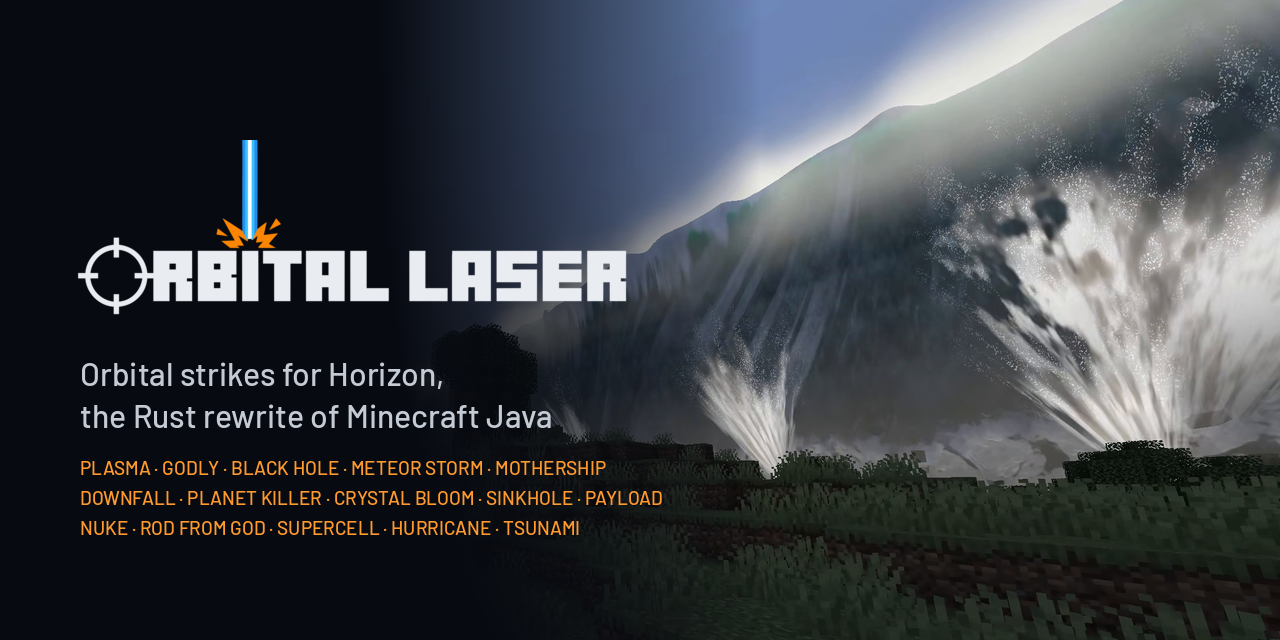
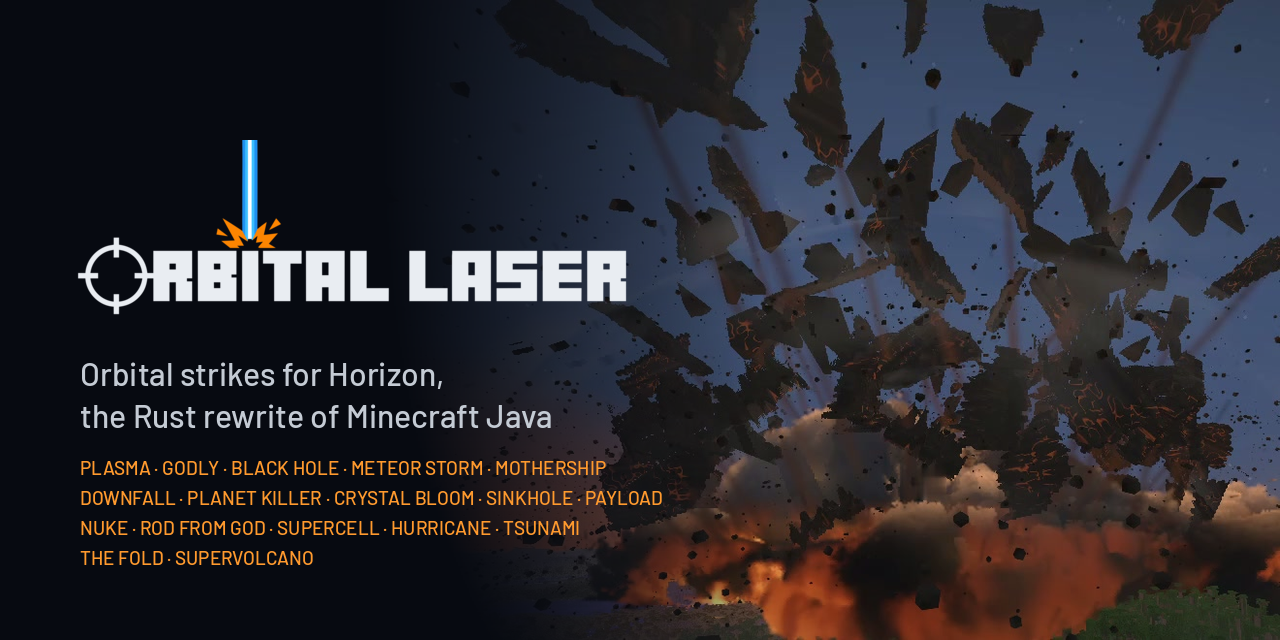
The Supervolcano's stills and the social card, from Kyle's recording
docs/54-57 from ~/Videos/supervolcano-1.mp4 (46, 60, 95 and 142 s), cropped clear of the hotbar and the hand, the
crosshair taken out with delogo, 1280x720: the burst, the column with its lightning at sunset, the wall of ash over the
savanna, the caldera at dusk. In the README's table and the 0.5.12 notes. The social card over the burst
(docs/branding/supervolcano-card.jpg, 50 s), with the Fold and the Supervolcano in its list of strikes.

diff --git a/tools/make_branding.py b/tools/make_branding.py
@@ -36,8 +36,8 @@ def raster(svg, width):
 def social_preview():
     W, H = 1280, 640
     # a strike on the right of the card (its ship and beam clear of the words), fading into the dark on the left
-    # (the Tsunami over the hills, its crest rising to the right, spray blown up where it hits the land)
-    shot = Image.open(ROOT / "docs" / "branding" / "tsunami-card.jpg").convert("RGB")
+    # (the Supervolcano's burst: the crust thrown up in plates over a band of fire, the sunset behind)
+    shot = Image.open(ROOT / "docs" / "branding" / "supervolcano-card.jpg").convert("RGB")
     shot = shot.resize((round(shot.width * H / shot.height), H), Image.LANCZOS)
     card = Image.new("RGBA", (W, H), (7, 10, 17, 255))
     card.paste(shot, (W - shot.width, 0))
@@ -58,6 +58,7 @@ def social_preview():
     d.text((80, 140 + logo.height + 136), "PLASMA · GODLY · BLACK HOLE · METEOR STORM · MOTHERSHIP", font=names, fill="#FF9A2E")
     d.text((80, 140 + logo.height + 166), "DOWNFALL · PLANET KILLER · CRYSTAL BLOOM · SINKHOLE · PAYLOAD", font=names, fill="#FF9A2E")
     d.text((80, 140 + logo.height + 196), "NUKE · ROD FROM GOD · SUPERCELL · HURRICANE · TSUNAMI", font=names, fill="#FF9A2E")
+    d.text((80, 140 + logo.height + 226), "THE FOLD · SUPERVOLCANO", font=names, fill="#FF9A2E")
     card.convert("RGB").save(OUT / "social-preview.png", optimize=True)
 
 

diff --git a/docs/releases/v0.5.12.md b/docs/releases/v0.5.12.md
@@ -12,12 +12,16 @@ The **Supervolcano** is the crust breached. A small laser satellite comes down o
 > [!CAUTION]
 > **Photosensitivity:** the Supervolcano's eruption whites out the picture for under a second at 18 seconds, and its lightning flashes in the cloud and over the land from about 26 to 80 seconds. The Tsunami's blow is one white flash over the whole picture. The Hurricane's eyewall lightning is bright flashes over much of the picture, in bursts. The Rod from God's impact frames are a fifth of a second of hard full-screen cuts, on by default (`/orbital impactframes off`). The Fold bends the whole world round you for half a minute.
 
-<!-- TODO stills: docs/54-supervolcano-*.jpg, captured in the game (the offscreen preview's flat synthetic land doesn't
-     match the other stills). Candidates from tools/preview.py are in ~/.cache/orbital-release-0512-work/stills-candidates.
 <p align="center">
-  <img alt="" width="720" src="https://github.com/Stink-O/orbital-laser/raw/main/docs/54-supervolcano-....jpg">
+  <img alt="The mount bursting open, fountains of lava and sparks thrown up off its broken peaks" width="720" src="https://github.com/Stink-O/orbital-laser/raw/main/docs/54-supervolcano-burst.jpg">
 </p>
--->
+<p align="center">
+  <img alt="The column at sunset, lightning down through it and plates of crust hanging in the air" width="356" src="https://github.com/Stink-O/orbital-laser/raw/main/docs/55-supervolcano-column.jpg">
+  <img alt="The wall of ash rolling over the savanna, its front lit, a tree black against it" width="356" src="https://github.com/Stink-O/orbital-laser/raw/main/docs/56-supervolcano-ash.jpg">
+</p>
+<p align="center">
+  <img alt="The caldera at dusk, a floor of cracked dark crust with pools of lava, a jagged rim against the red sun" width="720" src="https://github.com/Stink-O/orbital-laser/raw/main/docs/57-supervolcano-caldera.jpg">
+</p>
 
 ## New
 

diff --git a/README.md b/README.md
@@ -253,11 +253,9 @@ Supervolcano reach 1000. [How it works](docs/HOW-IT-WORKS.md#the-lasers-in-detai
 |---|---|---|---|
 | ![The land creased white and folding up round the target, its middle burning red](docs/49-fold-creases.jpg) | ![The whole world on the walls of a tube, a hole of stars in its roof](docs/50-fold-tube.jpg) | ![A ring of flames running out over the broken land from the middle](docs/52-fold-fire.jpg) | ![A crater of broken coloured panels on a twelve-fold pattern, black rock heaped round it](docs/53-fold-crater.jpg) |
 
-<!-- TODO before release: the Supervolcano's stills (docs/54-57), captured in the game, as the other lasers' are:
 | Supervolcano | The column | The wall of ash | What it leaves |
 |---|---|---|---|
-| ![...](docs/54-supervolcano-satellite.jpg) | ![...](docs/55-supervolcano-column.jpg) | ![...](docs/56-supervolcano-ash.jpg) | ![...](docs/57-supervolcano-caldera.jpg) |
--->
+| ![The mount bursting open, fountains of lava and sparks thrown up off its broken peaks](docs/54-supervolcano-burst.jpg) | ![The column at sunset, lightning down through it and plates of crust hanging in the air](docs/55-supervolcano-column.jpg) | ![The wall of ash rolling over the savanna, its front lit, a tree black against it](docs/56-supervolcano-ash.jpg) | ![The caldera at dusk, a floor of cracked dark crust with pools of lava, a jagged rim against the red sun](docs/57-supervolcano-caldera.jpg) |
 
 ## Getting started
 
